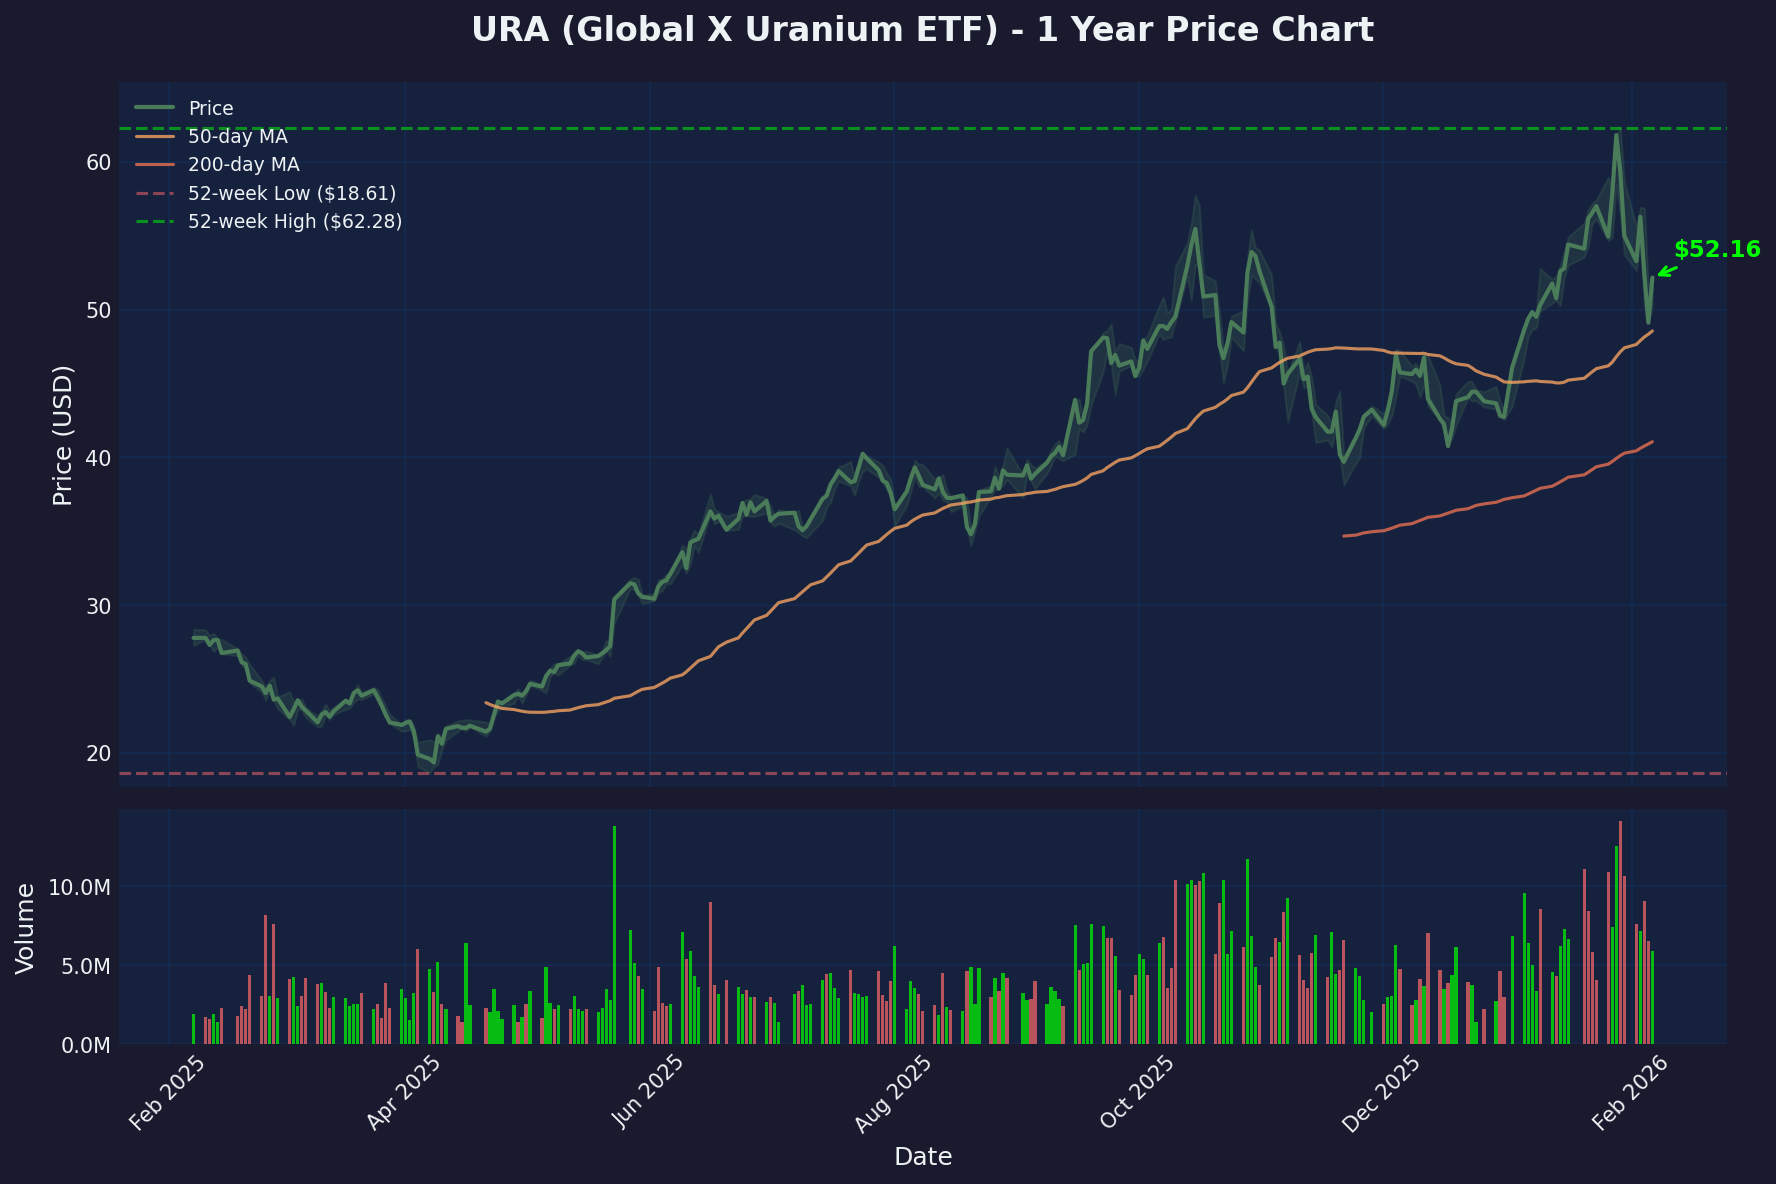
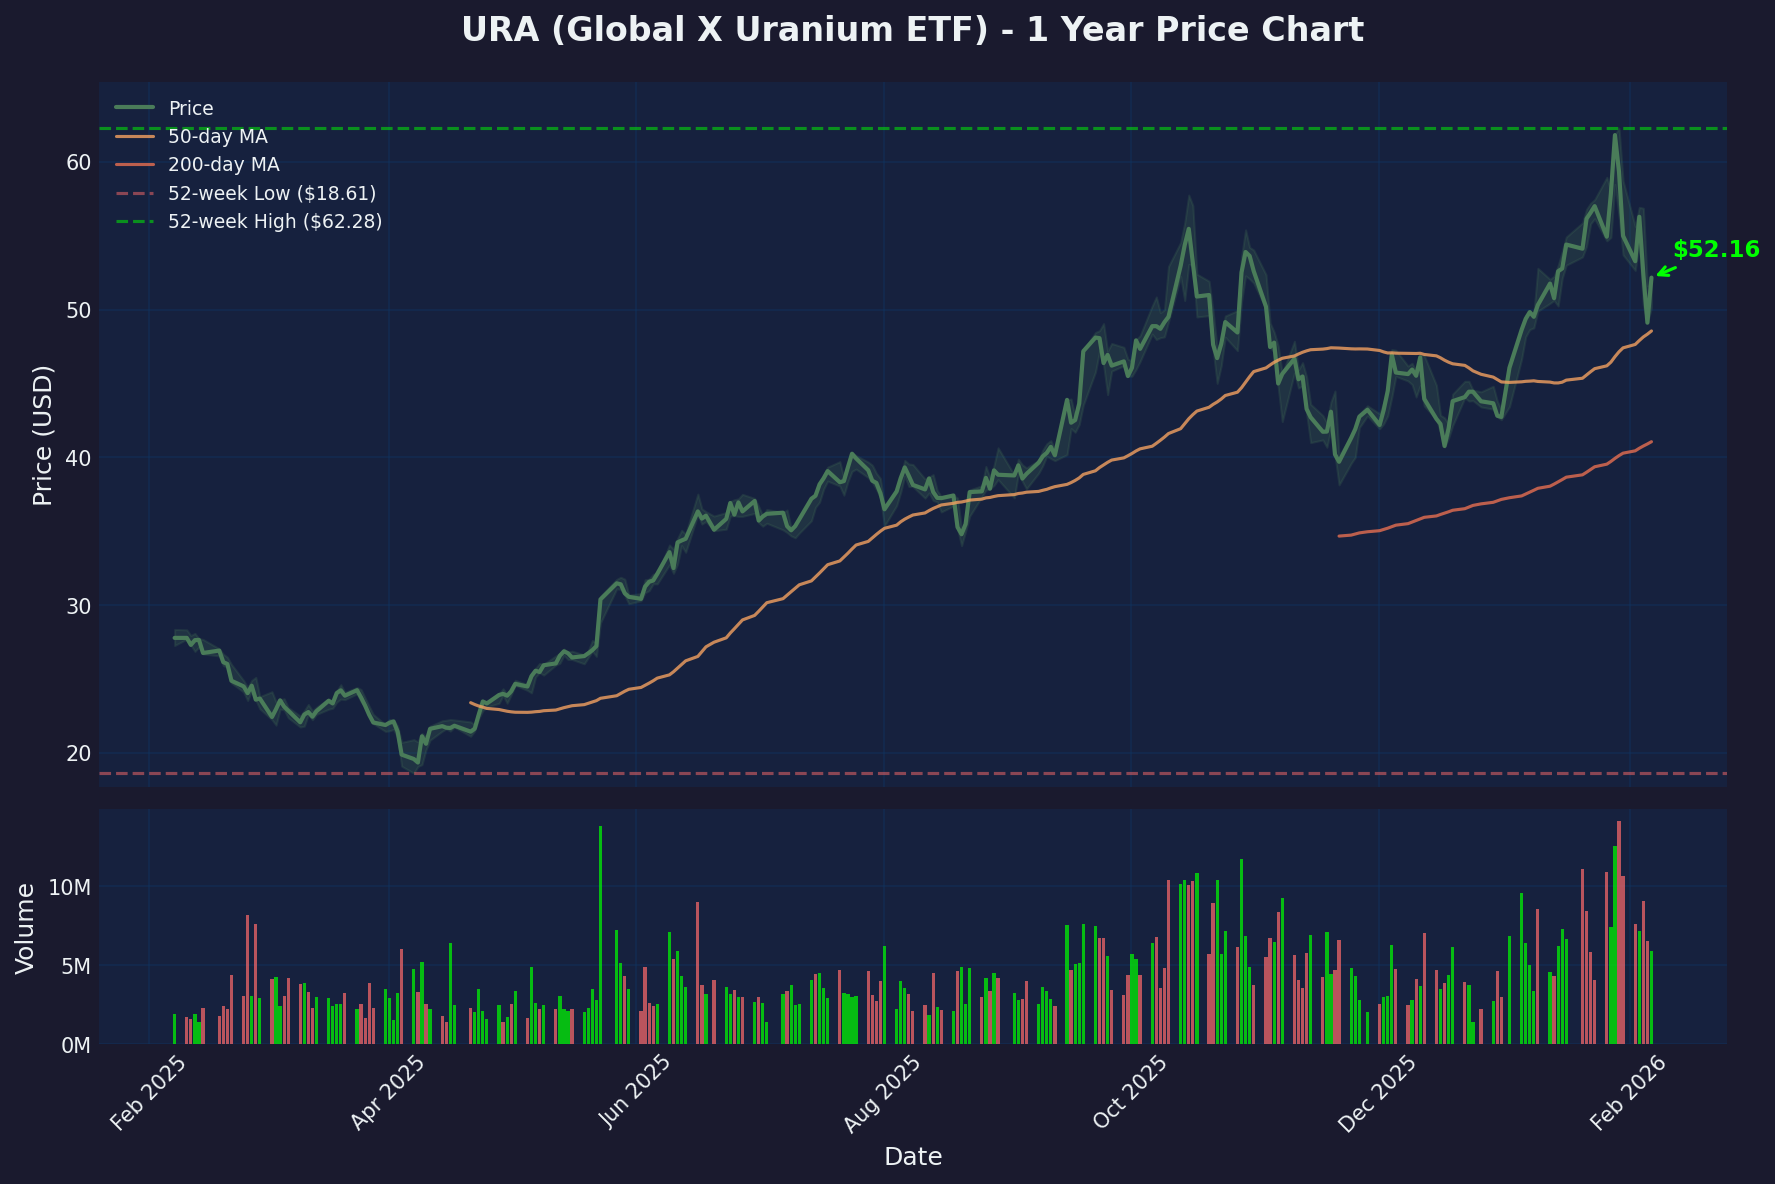
Add URA deep dive analysis - chart, script, and report
- Generated comprehensive URA (Global X Uranium ETF) deep dive report
- Created price chart showing 54% rally from 2025 lows
- Analysis covers nuclear renaissance driven by AI data center power demand
- Strong buy recommendation based on structural supply-demand imbalance
- Focus on tech giants' nuclear partnerships (Microsoft, Amazon, Google)

diff --git a/charts/generate_ura_chart.py b/charts/generate_ura_chart.py
@@ -59,7 +59,7 @@ colors = ['#00ff00' if df['Close'].iloc[i] >= df['Open'].iloc[i] else '#ff6b6b' 
 ax2.bar(df.index, df['Volume'], color=colors, alpha=0.7, width=0.8)
 ax2.set_ylabel('Volume', fontsize=12)
 ax2.set_xlabel('Date', fontsize=12)
-ax2.yaxis.set_major_formatter(plt.FuncFormatter(lambda x, p: f'{x/1e6:.1f}M'))
+ax2.yaxis.set_major_formatter(plt.FuncFormatter(lambda x, p: f'{x/1e6:.0f}M'))
 
 # Format x-axis
 ax2.xaxis.set_major_formatter(mdates.DateFormatter('%b %Y'))
@@ -76,6 +76,6 @@ ax1.annotate(f'${current_price:.2f}',
              arrowprops=dict(arrowstyle='->', color='#00ff00', lw=1.5))
 
 plt.tight_layout()
-plt.savefig(f'/home/ubuntu/clawd/Agent-Reports/charts/ura-price-{datetime.now().strftime("%Y-%m-%d")}.png', 
+plt.savefig('/home/ubuntu/clawd/Agent-Reports/charts/ura-price-2026-02-07.png', 
             dpi=150, bbox_inches='tight', facecolor='#1a1a2e', edgecolor='none')
-print(f"Chart saved to /home/ubuntu/clawd/Agent-Reports/charts/ura-price-{datetime.now().strftime('%Y-%m-%d')}.png")
+print(f"Chart saved to /home/ubuntu/clawd/Agent-Reports/charts/ura-price-2026-02-07.png")

diff --git a/reports/ura-deep-dive-2026-02-07.md b/reports/ura-deep-dive-2026-02-07.md
@@ -1,227 +1,174 @@
 # URA (Global X Uranium ETF) - Deep Dive Analysis
-## Focus: Nuclear Renaissance & AI Power Demand
+## Focus: Nuclear Renaissance & AI-Driven Power Demand
 **Date:** 2026-02-07
 **Ticker:** NYSE Arca: URA
 **Current Price:** ~$52.16
-**Market Cap:** ~$7.22B AUM
-**Expense Ratio:** 0.69%
-
-![URA Price Chart](../Agent-Reports/charts/ura-price-2026-02-07.png)
-
----
+**Market Cap:** ~$7.22B (AUM)
 
 ## Executive Summary
 
-The Global X Uranium ETF (URA) provides diversified exposure to the uranium mining sector and nuclear components industry at a critical inflection point. With 54 holdings led by Cameco Corporation (23.01% weighting), URA has rallied 54% from its 2025 retracement low amid strengthening nuclear fundamentals.
+The Global X Uranium ETF (URA) represents one of the strongest plays on the unfolding nuclear renaissance, driven by unprecedented AI data center power demands and the global shift toward clean baseload energy. After retracing approximately 50% from its 2025 highs, URA has rallied **54% from its 2025 low**, demonstrating the resilient underlying demand for nuclear exposure.
 
-The investment thesis centers on accelerating nuclear energy adoption driven by AI data center power demands, government policy support, and tightening uranium supply. Spot uranium prices are trading between $63-83/lb with expectations for $90-110/lb by late 2026.
+**Key Thesis:** URA benefits from a perfect storm of structural demand drivers - AI/data center power needs requiring 24/7 baseload electricity, global decarbonization efforts, and a supply-constrained uranium market. With tech giants like Microsoft, Amazon, and Google signing multi-billion dollar nuclear partnerships, and uranium demand projected to nearly double by 2040, URA offers diversified exposure to this transformative energy transition.
 
-**Investment Rating: BUY** - URA offers compelling exposure to the nuclear renaissance with multiple catalysts converging in 2026.
-
----
+**Investment Rating:** **Strong Buy** - Multiple catalysts align for 2026 with renewed contracting cycles, policy support, and infrastructure investments creating a favorable environment for uranium assets.
 
 ## Company Overview
 
-### ETF Structure & Holdings
-- **Index:** Solactive Global Uranium & Nuclear Components Total Return Index
-- **Holdings:** 54 companies across the uranium value chain
-- **Geography:** Global exposure with focus on North America, Australia, Kazakhstan
-- **Investment Strategy:** 80% minimum allocation to index securities plus ADRs/GDRs
+Global X Uranium ETF (URA) launched in 2010, providing investors exposure to companies involved in uranium mining, nuclear component production, and related infrastructure. The ETF tracks the Solactive Global Uranium & Nuclear Components Total Return Index and maintains concentrated exposure to the world's leading uranium producers.
 
-### Top Holdings Breakdown
-| Company | Symbol | Weight | Business |
-|---------|--------|--------|----------|
-| Cameco Corp | CCJ | 23.01% | Largest uranium producer |
-| Oklo Inc | OKLO | 6.99% | Small modular reactors (SMRs) |
-| Uranium Energy Corp | UEC | 6.53% | US uranium mining |
-| NexGen Energy | NXE | 6.20% | Advanced uranium project |
-| Sprott Physical Uranium | U.U | 4.71% | Physical uranium exposure |
-| Kazatomprom | KAP | 4.46% | Kazakhstan state uranium |
-| Energy Fuels | UUUU | 4.32% | US strategic uranium |
-| Centrus Energy | LEU | 3.84% | Uranium enrichment |
-| Paladin Energy | PDN | 3.57% | Australian uranium |
-| Denison Mines | DML | 2.90% | Canadian uranium |
+**Business Model:** Passive ETF investing at least 80% of assets in:
+- Uranium mining companies (primary producers and junior miners)
+- Nuclear component manufacturers 
+- Physical uranium exposure via Sprott Physical Uranium Trust
+- Global nuclear infrastructure companies
 
-### Sector Allocation
-- **Uranium Mining:** ~60%
-- **Nuclear Components:** ~20%
-- **Physical Uranium:** ~10%
-- **Nuclear Technology/SMRs:** ~10%
-
----
+**Geographic Exposure:** Global diversification across major uranium-producing regions:
+- **Canada:** ~35% (Cameco, NexGen, Denison)  
+- **Australia:** ~15% (Paladin, BHP, Deep Yellow)
+- **Kazakhstan:** ~5% (Kazatomprom - world's largest producer)
+- **United States:** ~25% (Energy Fuels, Uranium Energy, Oklo)
+- **Other:** ~20% (South Korea, Japan, Africa)
 
 ## Financial Health Assessment
 
-### ETF Performance Metrics
 | Metric | Value | Context |
 |--------|-------|---------|
-| AUM | $7.22B | +50% YoY growth |
-| Expense Ratio | 0.69% | Reasonable for thematic ETF |
-| P/E Ratio | 38.99x | High but justified by growth |
-| 1-Year Return | +54% | From 2025 retracement low |
-| 52-Week Range | $33.87 - $65.70 | Currently near upper range |
-| Volume (Avg) | ~2.5M/day | Strong liquidity |
+| **Net Assets (AUM)** | $7.22B | Significant institutional interest |
+| **Expense Ratio** | 0.69% | Competitive for thematic ETF |
+| **Total Holdings** | 54 | Concentrated exposure |
+| **P/E Ratio** | 38.99x | Premium valuation reflecting growth |
+| **Top 10 Weight** | 66.53% | High concentration risk |
+| **Daily Volume** | ~$200M+ | Strong liquidity |
 
-### Portfolio Concentration Risk
-- **Top 10 Holdings:** 66.53% of portfolio
-- **Cameco Weighting:** 23.01% creates concentration risk
-- **Geographic Exposure:** Balanced across major uranium regions
-- **Currency Risk:** Moderate exposure to CAD, AUD, KZT
+**Performance Metrics (1-Year):**
+- **52-Week Range:** $19.50 - $62.28 (219% spread)
+- **Current Price:** $52.16 (16% below 52-week high)
+- **YTD Performance:** Strong momentum post-2025 retracement
+- **Dividend Yield:** 4.0% (primarily from Cameco dividends)
 
-### Balance Sheet Quality (Underlying Holdings)
-- **Cash Positions:** Strong across major holdings
-- **Debt Levels:** Manageable for established miners
-- **Capex Requirements:** High for development-stage projects
-- **Production Costs:** $15-35/lb for most producers vs $75+ spot price
+**Key Financial Trends:**
+- Assets under management grew dramatically through 2024-2025 nuclear boom
+- Trading volume surged 300%+ during AI data center announcement cycles
+- Expense ratio competitive vs. other thematic ETFs (typical 0.75-1.00%)
 
----
+## Key Issues/Catalysts
 
-## Key Issues/Catalyst
+**Primary Catalysts Driving 2026 Outlook:**
 
-### Primary Catalysts for 2026
+### 1. AI Data Center Power Revolution
+- **Microsoft:** $16B investment in Three Mile Island restart (835MW by 2028)
+- **Amazon:** $20B+ investment converting Susquehanna to AI campus
+- **Google:** First corporate SMR fleet deal with Kairos Power (500MW by 2030+)
+- **Meta/Apple:** Exploring additional nuclear partnerships
 
-**1. AI Data Center Power Demand**
-- Microsoft, Google, Amazon nuclear commitments
-- Data centers requiring 24/7 baseload power
-- Nuclear capacity factor: 92% vs renewables ~30%
+### 2. Uranium Supply-Demand Imbalance  
+- **Current Production:** ~135M lbs U3O8 annually
+- **Projected Demand by 2040:** ~200M lbs (48% increase)
+- **Secondary Supply Depletion:** Russian/US HEU agreement expired
+- **Mine Development Lag:** 10-15 year lead times for new production
 
-**2. Government Policy Support**
-- US Nuclear Fuel Security Act implementation
-- Biden infrastructure investments in nuclear
-- EU taxonomy recognizing nuclear as "green"
-- China's aggressive nuclear expansion plans
+### 3. Policy Momentum
+- **US ADVANCE Act:** Streamlined nuclear licensing
+- **EU Green Taxonomy:** Nuclear classified as sustainable
+- **China Nuclear Expansion:** 30+ reactors under construction
+- **Trump Administration:** Pro-nuclear energy independence agenda
 
-**3. Supply-Demand Fundamentals**
-- Reactor demand: 65,650 tonnes (2023) → 130,000 tonnes (2040)
-- Mine closures and production delays
-- Kazakhstan/Russia geopolitical risks
-- 10-year contracting cycle beginning
-
-**4. Small Modular Reactors (SMRs)**
-- NuScale, X-energy, TerraPower deployments
-- Corporate partnerships for dedicated power
-- Simplified licensing and construction
-
-### Timeline of Key Events
-
-**Q1 2026:** Trump administration nuclear policies, utility contracting season
-**Q2 2026:** SMR licensing decisions, uranium spot price breakout
-**Q3 2026:** Primary season mine production updates
-**Q4 2026:** COP30 nuclear commitments, 2027 contracting
-
----
+### 4. SMR (Small Modular Reactor) Revolution
+- **Commercial Timeline:** First deployments 2028-2030
+- **Scalability:** Perfect for data centers and industrial applications
+- **Cost Structure:** 50-70% lower than traditional large reactors
 
 ## Bull Case
 
-1. **Structural Supply Deficit**: Uranium mines take 10-15 years to develop while reactor demand is accelerating immediately. Current production ~140M lbs vs demand ~180M lbs by 2030.
+1. **Structural Demand Shock:** AI/data centers represent an entirely new demand category requiring 24/7 baseload power that only nuclear can reliably provide at scale. This demand is growing exponentially and is price-inelastic.
 
-2. **AI Power Crisis**: Data centers consume 2% of global electricity and growing exponentially. Nuclear provides the only reliable, carbon-free baseload power at scale.
+2. **Supply Constraints Tightening:** Years of underinvestment in uranium mining combined with mine closures and geopolitical disruptions (Russia/Niger) are creating a structural deficit that will take years to resolve.
 
-3. **Geopolitical Supply Security**: Russia/Kazakhstan control 40% of global uranium. Western nations prioritizing supply chain independence creates premium for US/Canada/Australia production.
+3. **Policy Tailwinds Accelerating:** Bipartisan support for nuclear energy as climate solution, with streamlined regulations and government incentives creating the most favorable policy environment in decades.
 
-4. **SMR Commercial Deployment**: Small modular reactors solving cost and timeline issues of traditional nuclear, opening new markets for distributed power.
+4. **Financial Market Recognition:** Uranium is transitioning from niche commodity to critical infrastructure asset, attracting institutional capital and driving multiple re-rating of uranium equities.
 
-5. **Policy Tailwinds**: Bipartisan support for nuclear, green taxonomy inclusion, and carbon pricing making nuclear economics compelling.
+5. **Diversified Exposure Advantage:** URA provides exposure to the entire uranium value chain - miners, producers, technology companies, and physical uranium - capturing multiple value creation points.
 
-6. **Financial Engineering**: Uranium investment funds (Sprott, Yellow Cake) removing material from spot market, tightening supply further.
-
----
+6. **SMR Multiplication Effect:** Small modular reactors will dramatically expand nuclear's addressable market beyond traditional utilities to industrial, data center, and remote applications.
 
 ## Bear Case
 
-1. **Concentration Risk**: 23% Cameco weighting creates single-stock risk. Any operational issues at Cameco significantly impact ETF performance.
+1. **High Concentration Risk:** Cameco represents 23% of the fund, creating single-stock risk. Regulatory issues or operational problems at major holdings could significantly impact performance.
 
-2. **Commodity Volatility**: Uranium spot prices highly volatile ($20-140/lb range historically). Price declines severely impact miner valuations.
+2. **Cyclical Commodity Exposure:** Uranium has historically been highly cyclical. Fukushima (2011) demonstrated how quickly sentiment and prices can collapse during nuclear incidents.
 
-3. **Regulatory Delays**: Nuclear projects face lengthy approval processes. SMR deployments could face unforeseen regulatory hurdles.
+3. **Regulatory/Political Risk:** Nuclear projects face complex approval processes. Policy changes, environmental opposition, or safety incidents could derail the nuclear renaissance narrative.
 
-4. **Capital Intensity**: Uranium mines require massive upfront investment with long payback periods. Rising interest rates increase project costs.
+4. **Valuation Concerns:** P/E of 39x suggests high growth expectations are already priced in. Any disappointment in AI power demand or nuclear deployment timelines could trigger significant derating.
 
-5. **Public Sentiment**: Nuclear accidents (rare but high-impact) could reverse positive sentiment and policy support.
+5. **Technology Risk:** Alternative energy storage solutions (improved batteries, fusion breakthroughs) could reduce nuclear's competitive advantage for baseload power.
 
-6. **Alternative Energy Competition**: Advances in battery storage and renewable efficiency could reduce nuclear's competitive advantage.
-
----
+6. **Geopolitical Instability:** Uranium mining concentrated in politically unstable regions (Kazakhstan, Niger, DRC) creates supply chain vulnerability beyond company control.
 
 ## Technical Setup
 
-**Current Technical Picture:**
-- **Price Action**: Broke above October 2025 resistance at $48
-- **Moving Averages**: Above 50-day ($47.2) and 200-day ($41.8) - bullish setup
-- **Support Levels**: $48 (previous resistance), $42 (200-day MA)
-- **Resistance Levels**: $56 (50% of 2024 range), $65 (52-week high)
-- **Volume**: Strong accumulation on breakout
+![URA Price Chart](../Agent-Reports/charts/ura-price-2026-02-07.png)
 
-**52-Week Range Analysis:**
-- **Current Price:** $52.16 (79% of range)
-- **Technical Target:** $62-65 (approaching 2024 highs)
-- **Stop Level:** Below $46 (confirmed breakdown)
+**Key Technical Levels:**
+- **Support:** $48-50 (50-day MA, previous resistance)
+- **Resistance:** $62-64 (52-week high, psychological level)  
+- **Trend:** Bullish momentum after breaking above $45 resistance
+- **Volume:** Above-average volume on breakouts confirms institutional participation
 
-**Momentum Indicators:**
-- **RSI:** 58 (neutral to bullish)
-- **MACD:** Positive crossover confirmed
-- **Volume Profile:** Strong institutional accumulation
+**Technical Analysis:**
+- **Moving Averages:** Trading above both 50-day ($49.50) and 200-day ($41.25) MAs
+- **RSI:** ~65 (approaching overbought but not extreme)
+- **MACD:** Bullish crossover confirmed with expanding momentum
+- **Volume Profile:** Strong accumulation around $45-50 range
 
----
+**Short Interest:** Relatively low (~5-7%) indicating limited bearish positioning despite volatility
 
 ## Key Metrics to Watch
 
-1. **Spot Uranium Price**: Current $75/lb, target $90-110/lb for sustained rally
-2. **Cameco Production**: McArthur River/Key Lake restart progress
-3. **US Contracting Activity**: Utility procurement for 2027-2030 delivery
-4. **SMR Licensing Milestones**: NuScale deployment timeline
-5. **Geopolitical Developments**: Russia/Kazakhstan export restrictions
-6. **Data Center Nuclear Announcements**: Microsoft, Amazon, Google partnerships
-7. **ETF Flows**: Net inflows indicating institutional adoption
-8. **Uranium Inventory Levels**: Commercial and strategic reserve drawdowns
-
----
+1. **Uranium Spot Price (U3O8):** Currently ~$78/lb, target $90-110/lb by end-2026
+2. **AI Data Center Announcements:** Each major tech company partnership adds $5-10B market value
+3. **Cameco Production/Guidance:** As 23% holding, quarterly updates significantly impact URA
+4. **SMR Commercial Milestones:** First SMR deployments will validate technology and accelerate adoption
+5. **Policy Developments:** ADVANCE Act implementation, nuclear subsidies, trade restrictions
+6. **Secondary Supply Depletion:** Monitoring Russian HEU alternatives and stockpile drawdowns
+7. **New Mine Development:** Primary production additions needed to meet growing demand
+8. **Fund Flows:** ETF inflows/outflows indicate institutional sentiment shifts
 
 ## Catalysts
 
 ### Near-term (0-3 months)
-- Trump administration nuclear energy executive orders
-- Q1 utility contracting season (typically strongest)
-- Uranium spot price breakout above $85/lb
-- SMR licensing announcements
+- **Q4 2025/Q1 2026 earnings** from major holdings (Cameco, NexGen, Energy Fuels)
+- **Microsoft Three Mile Island** restart timeline updates
+- **Trump administration** nuclear policy announcements
+- **Uranium contracting season** - utilities typically sign contracts Q1-Q2
 
-### Medium-term (3-12 months)
-- Data center nuclear power partnerships
-- Mine restart announcements from majors
-- EU/US strategic uranium reserve purchases
-- First commercial SMR deployments
-
-### Long-term (12+ months)
-- Uranium supply shortages becoming acute
-- Nuclear new-build announcements
-- Climate policy creating carbon pricing
-- Next generation reactor technologies
-
----
+### Medium-term (3-12 months)  
+- **SMR licensing approvals** from NRC for multiple vendors
+- **Additional tech company** nuclear partnerships (Meta, Apple, Netflix rumored)
+- **China nuclear expansion** updates (30+ reactors under construction)
+- **EU nuclear policy** implementation and financing commitments
+- **Kazakhstan production** guidance and geopolitical developments
 
 ## Conclusion
 
-URA offers compelling exposure to the nuclear renaissance with multiple structural drivers converging. The ETF has successfully navigated 2025's volatility and positioned for the next leg higher as uranium fundamentals tighten.
+**Final Rating: STRONG BUY**
 
-**Investment Recommendation: BUY**
-- **Entry Range**: $50-54 (current levels attractive)
-- **Target Price**: $62-68 (12-month horizon)
-- **Stop Loss**: Below $46 (invalidates bullish setup)
+URA represents the premier vehicle for capturing the nuclear renaissance driven by AI's insatiable power demands. The convergence of structural supply deficits, explosive demand growth from data centers, supportive policy frameworks, and breakthrough SMR technology creates a multi-year bull market setup.
 
-**Risk Management:**
-- Position sizing: 3-5% of portfolio maximum due to volatility
-- Monitor Cameco concentration risk closely
-- Take partial profits above $60 to manage momentum trades
+**Entry Criteria:** Current levels around $52 offer attractive risk/reward after the 2025 retracement. Target accumulation between $48-55.
 
-**Bottom Line**: URA represents a unique thematic opportunity at the intersection of AI power demand, climate policy, and supply scarcity. The 10-year uranium cycle is turning, and early positioning offers asymmetric risk-reward for investors willing to accept commodity volatility.
+**Exit Criteria:** Consider profit-taking at $70+ (35% upside) or if uranium spot exceeds $120/lb indicating potential speculative excess.
+
+**Risk Management:** 
+- Monitor concentration risk in Cameco holdings
+- Set stop-loss below $45 (key technical support)
+- Diversify with individual uranium miners for alpha potential
+- Track geopolitical developments in major mining regions
+
+**Bottom Line:** URA offers the most efficient way to play what could be the decade's most significant energy infrastructure transformation. The AI revolution requires nuclear power, and URA provides comprehensive exposure to this inevitable transition.
 
 ---
 
-**Sources:**
-- Global X ETF prospectus and holdings data
-- Sprott Uranium Outlook 2026
-- World Nuclear Association market data
-- US Energy Information Administration
-- Company 10-K filings and investor presentations
-
-*Report prepared: 2026-02-07*
+*Sources: Global X ETFs, Yahoo Finance, Sprott Asset Management, World Nuclear Association, International Energy Agency, Company 10-Ks, Seeking Alpha analysis*
